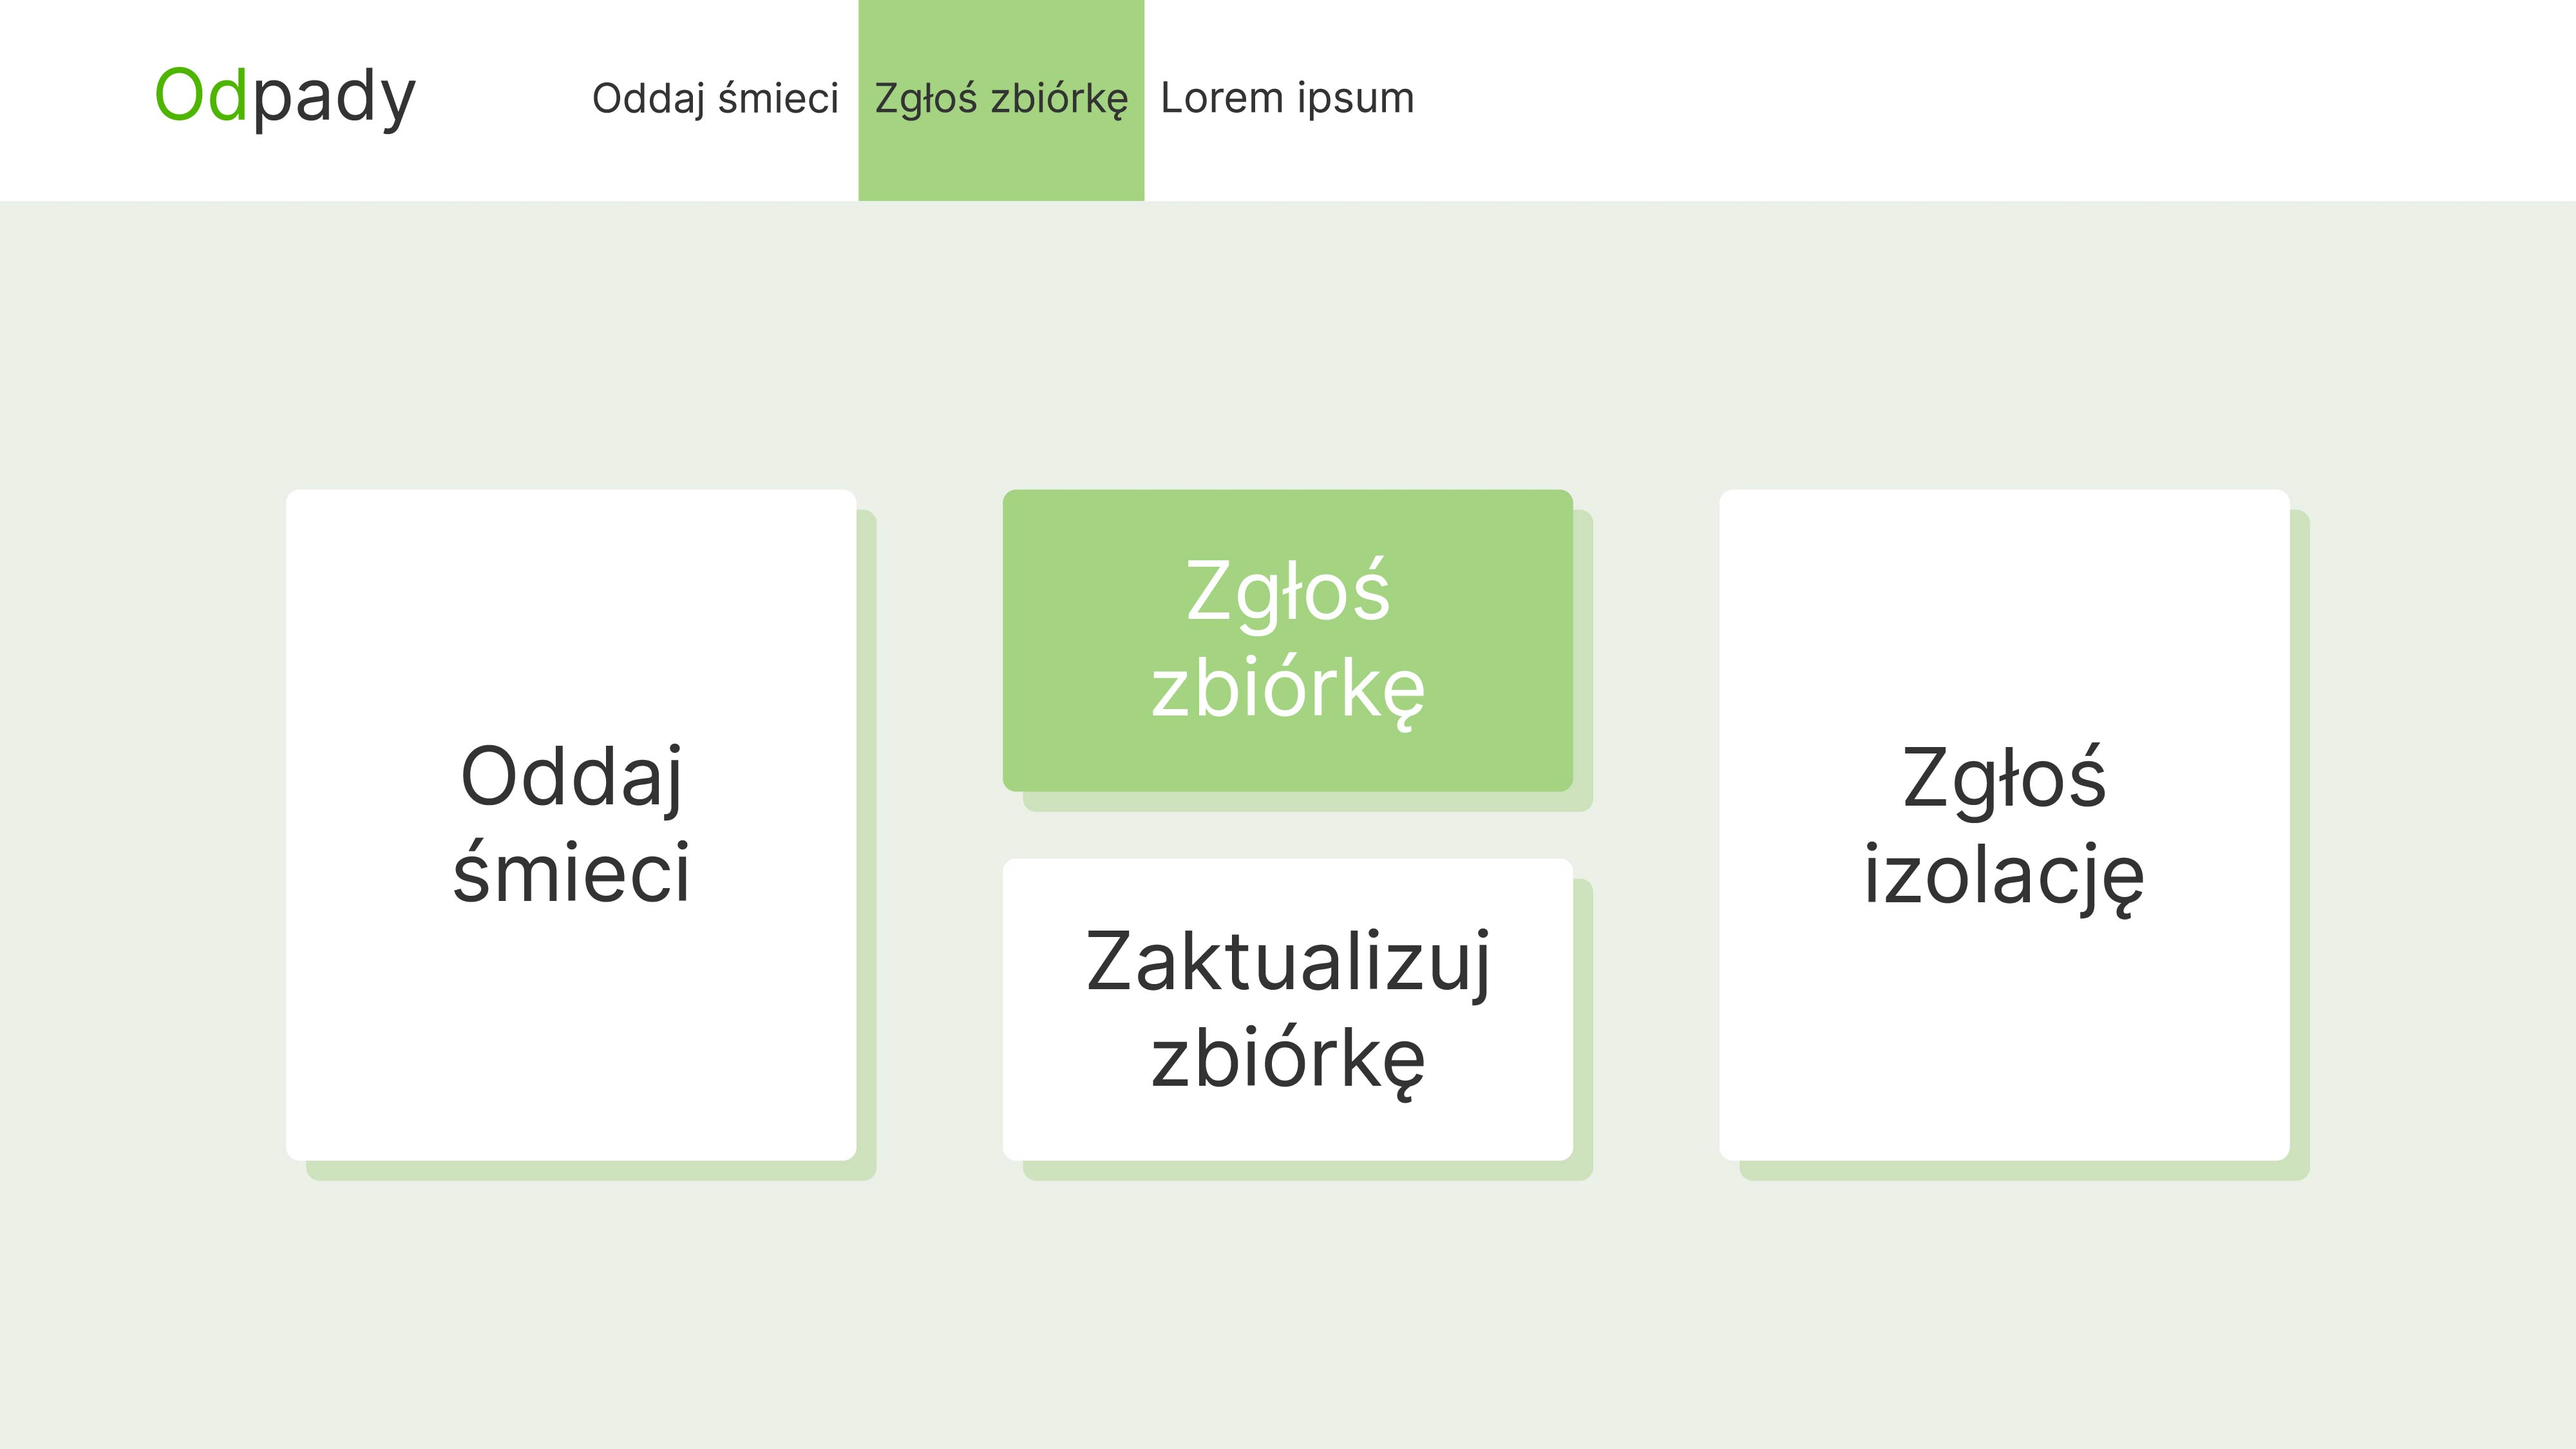
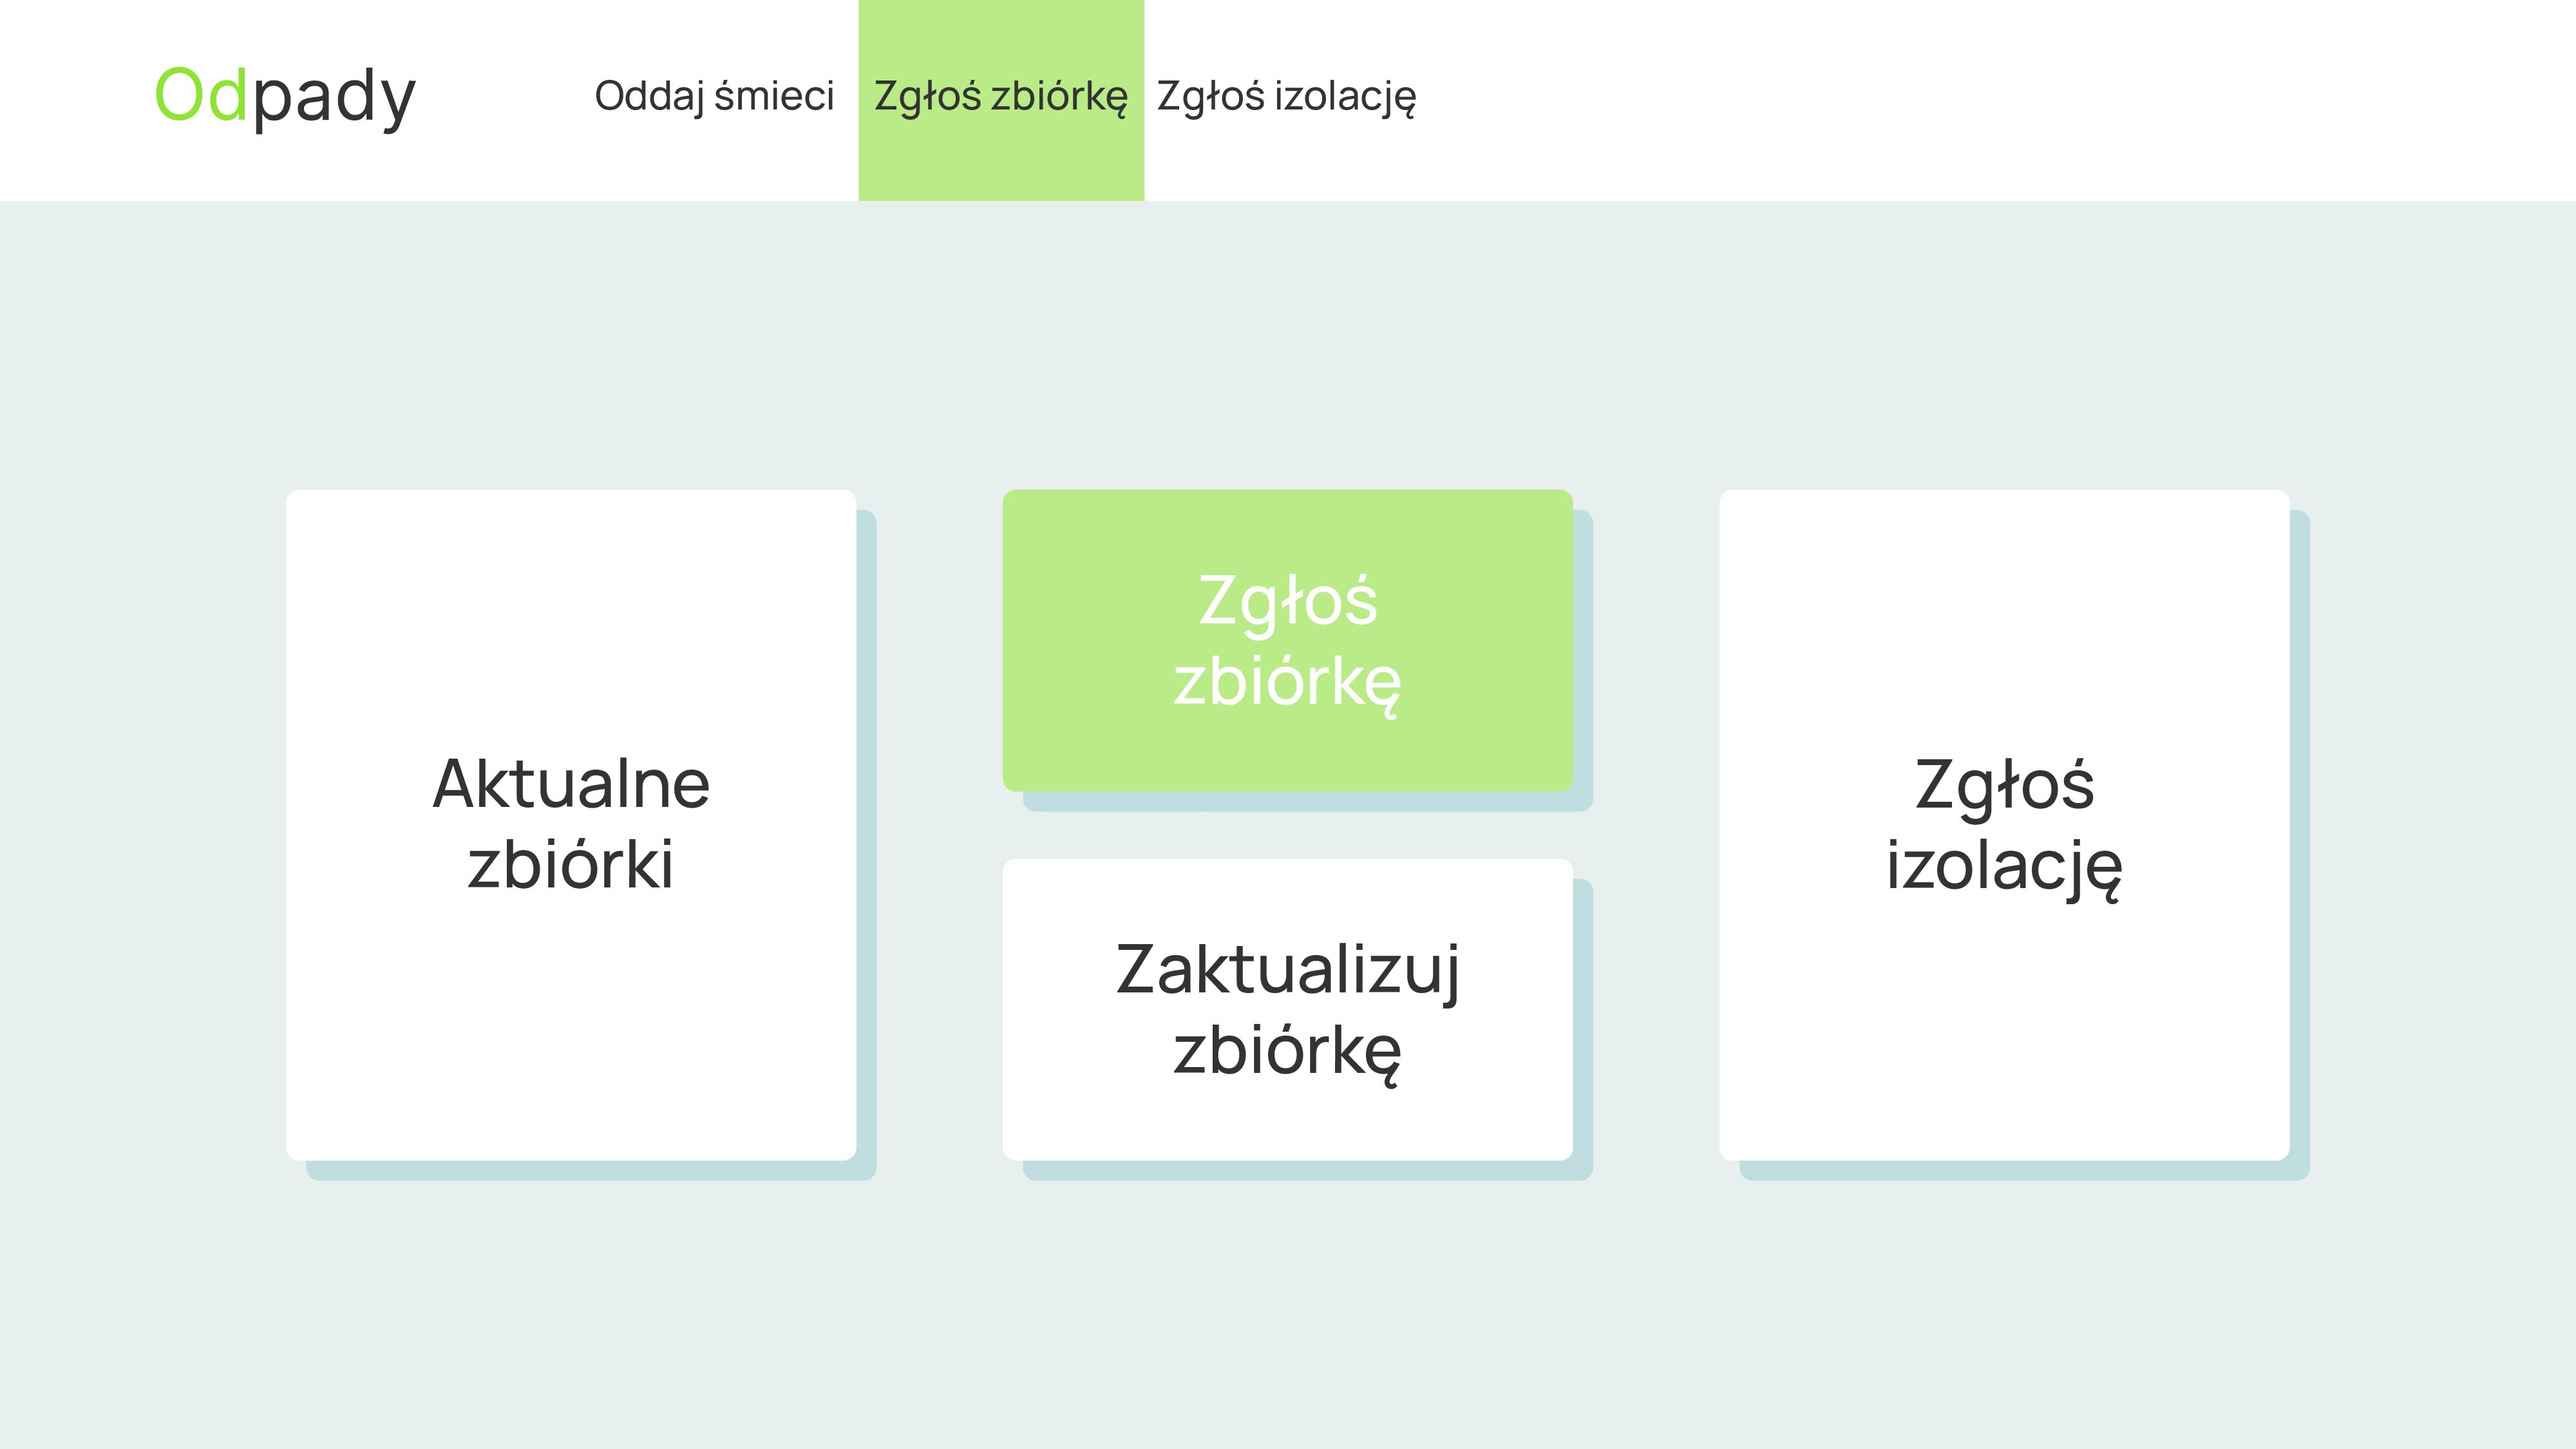
changed colors on main screen

diff --git a/hackpfr/src/assets/graphics/main-screen.css b/hackpfr/src/assets/graphics/main-screen.css
@@ -24,21 +24,21 @@
 }
 .shadow3
 {
-	background : #CDE1BD;
-	background : rgba(205, 225, 189, 1);
+	background : #BFDEDE;
+	background : rgba(191, 222, 222, 1);
 	position : absolute ;
 	left : 762px;
 	top : 380px;
 	width : 425px;
-	height : 225px;
+	height : 224px;
 	border-radius : 10px;
 	-moz-border-radius : 10px;
 	-webkit-border-radius : 10px;
 }
 .highlight
 {
-	background : #A4D381;
-	background : rgba(164, 211, 129, 1);
+	background : #BAEB87;
+	background : rgba(186, 235, 135, 1);
 	position : absolute ;
 	left : 640px;
 	top : 0px;
@@ -47,52 +47,39 @@
 }
 .shadow2
 {
-	background : #CDE1BD;
-	background : rgba(205, 225, 189, 1);
+	background : #BFDEDE;
+	background : rgba(191, 222, 222, 1);
 	position : absolute ;
 	left : 1296px;
 	top : 380px;
 	width : 425px;
-	height : 500px;
-	border-radius : 10px;
-	-moz-border-radius : 10px;
-	-webkit-border-radius : 10px;
-}
-.shahow4
-{
-	background : #CDE1BD;
-	background : rgba(205, 225, 189, 1);
-	position : absolute ;
-	left : 762px;
-	top : 655px;
-	width : 425px;
-	height : 225px;
+	height : 499px;
 	border-radius : 10px;
 	-moz-border-radius : 10px;
 	-webkit-border-radius : 10px;
 }
 .shadow1
 {
-	background : #CDE1BD;
-	background : rgba(205, 225, 189, 1);
+	background : #BFDEDE;
+	background : rgba(191, 222, 222, 1);
 	position : absolute ;
 	left : 228px;
 	top : 380px;
 	width : 425px;
-	height : 500px;
+	height : 499px;
 	border-radius : 10px;
 	-moz-border-radius : 10px;
 	-webkit-border-radius : 10px;
 }
 .background
 {
-	background : #EBF0E7;
-	background : rgba(235, 240, 231, 1);
+	background : #E8EFEF;
+	background : rgba(232, 239, 239, 1);
 	position : absolute ;
 	left : 0px;
 	top : 150px;
 	width : 1920px;
-	height : 930px;
+	height : 929px;
 }
 .button2
 {
@@ -102,7 +89,7 @@
 	left : 1281px;
 	top : 365px;
 	width : 425px;
-	height : 500px;
+	height : 499px;
 	border-radius : 10px;
 	-moz-border-radius : 10px;
 	-webkit-border-radius : 10px;
@@ -115,20 +102,20 @@
 	left : 213px;
 	top : 365px;
 	width : 425px;
-	height : 500px;
+	height : 499px;
 	border-radius : 10px;
 	-moz-border-radius : 10px;
 	-webkit-border-radius : 10px;
 }
 .button-highlight3
 {
-	background : #A4D381;
-	background : rgba(164, 211, 129, 1);
+	background : #BAEB87;
+	background : rgba(186, 235, 135, 1);
 	position : absolute ;
 	left : 747px;
 	top : 365px;
 	width : 425px;
-	height : 225px;
+	height : 224px;
 	border-radius : 10px;
 	-moz-border-radius : 10px;
 	-webkit-border-radius : 10px;
@@ -136,21 +123,21 @@
 .NormalCharacterStyle
 {
 	font-family : Manrope;
-	font-size : 60px;
-	color : #FFFFFF;
-	color : rgb(255, 255, 255);
+	font-size : 50px;
+	color : #333333;
+	color : rgb(51, 51, 51);
 }
 .NormalCharacterStyle1
 {
 	font-family : Manrope;
-	font-size : 60px;
-	color : #333333;
-	color : rgb(51, 51, 51);
+	font-size : 50px;
+	color : #FFFFFF;
+	color : rgb(255, 255, 255);
 }
 .NormalCharacterStyle2
 {
 	font-family : Manrope;
-	font-size : 60px;
+	font-size : 50px;
 	color : #333333;
 	color : rgb(51, 51, 51);
 }
@@ -171,7 +158,7 @@
 .NormalCharacterStyle3
 {
 	font-family : Manrope;
-	font-size : 60px;
+	font-size : 50px;
 	color : #333333;
 	color : rgb(51, 51, 51);
 }
@@ -181,6 +168,19 @@
 	font-size : 30px;
 	color : #333333;
 	color : rgb(51, 51, 51);
+}
+.shadow4
+{
+	background : #BFDEDE;
+	background : rgba(191, 222, 222, 1);
+	position : absolute ;
+	left : 762px;
+	top : 655px;
+	width : 425px;
+	height : 225px;
+	border-radius : 10px;
+	-moz-border-radius : 10px;
+	-webkit-border-radius : 10px;
 }
 .logo
 {
